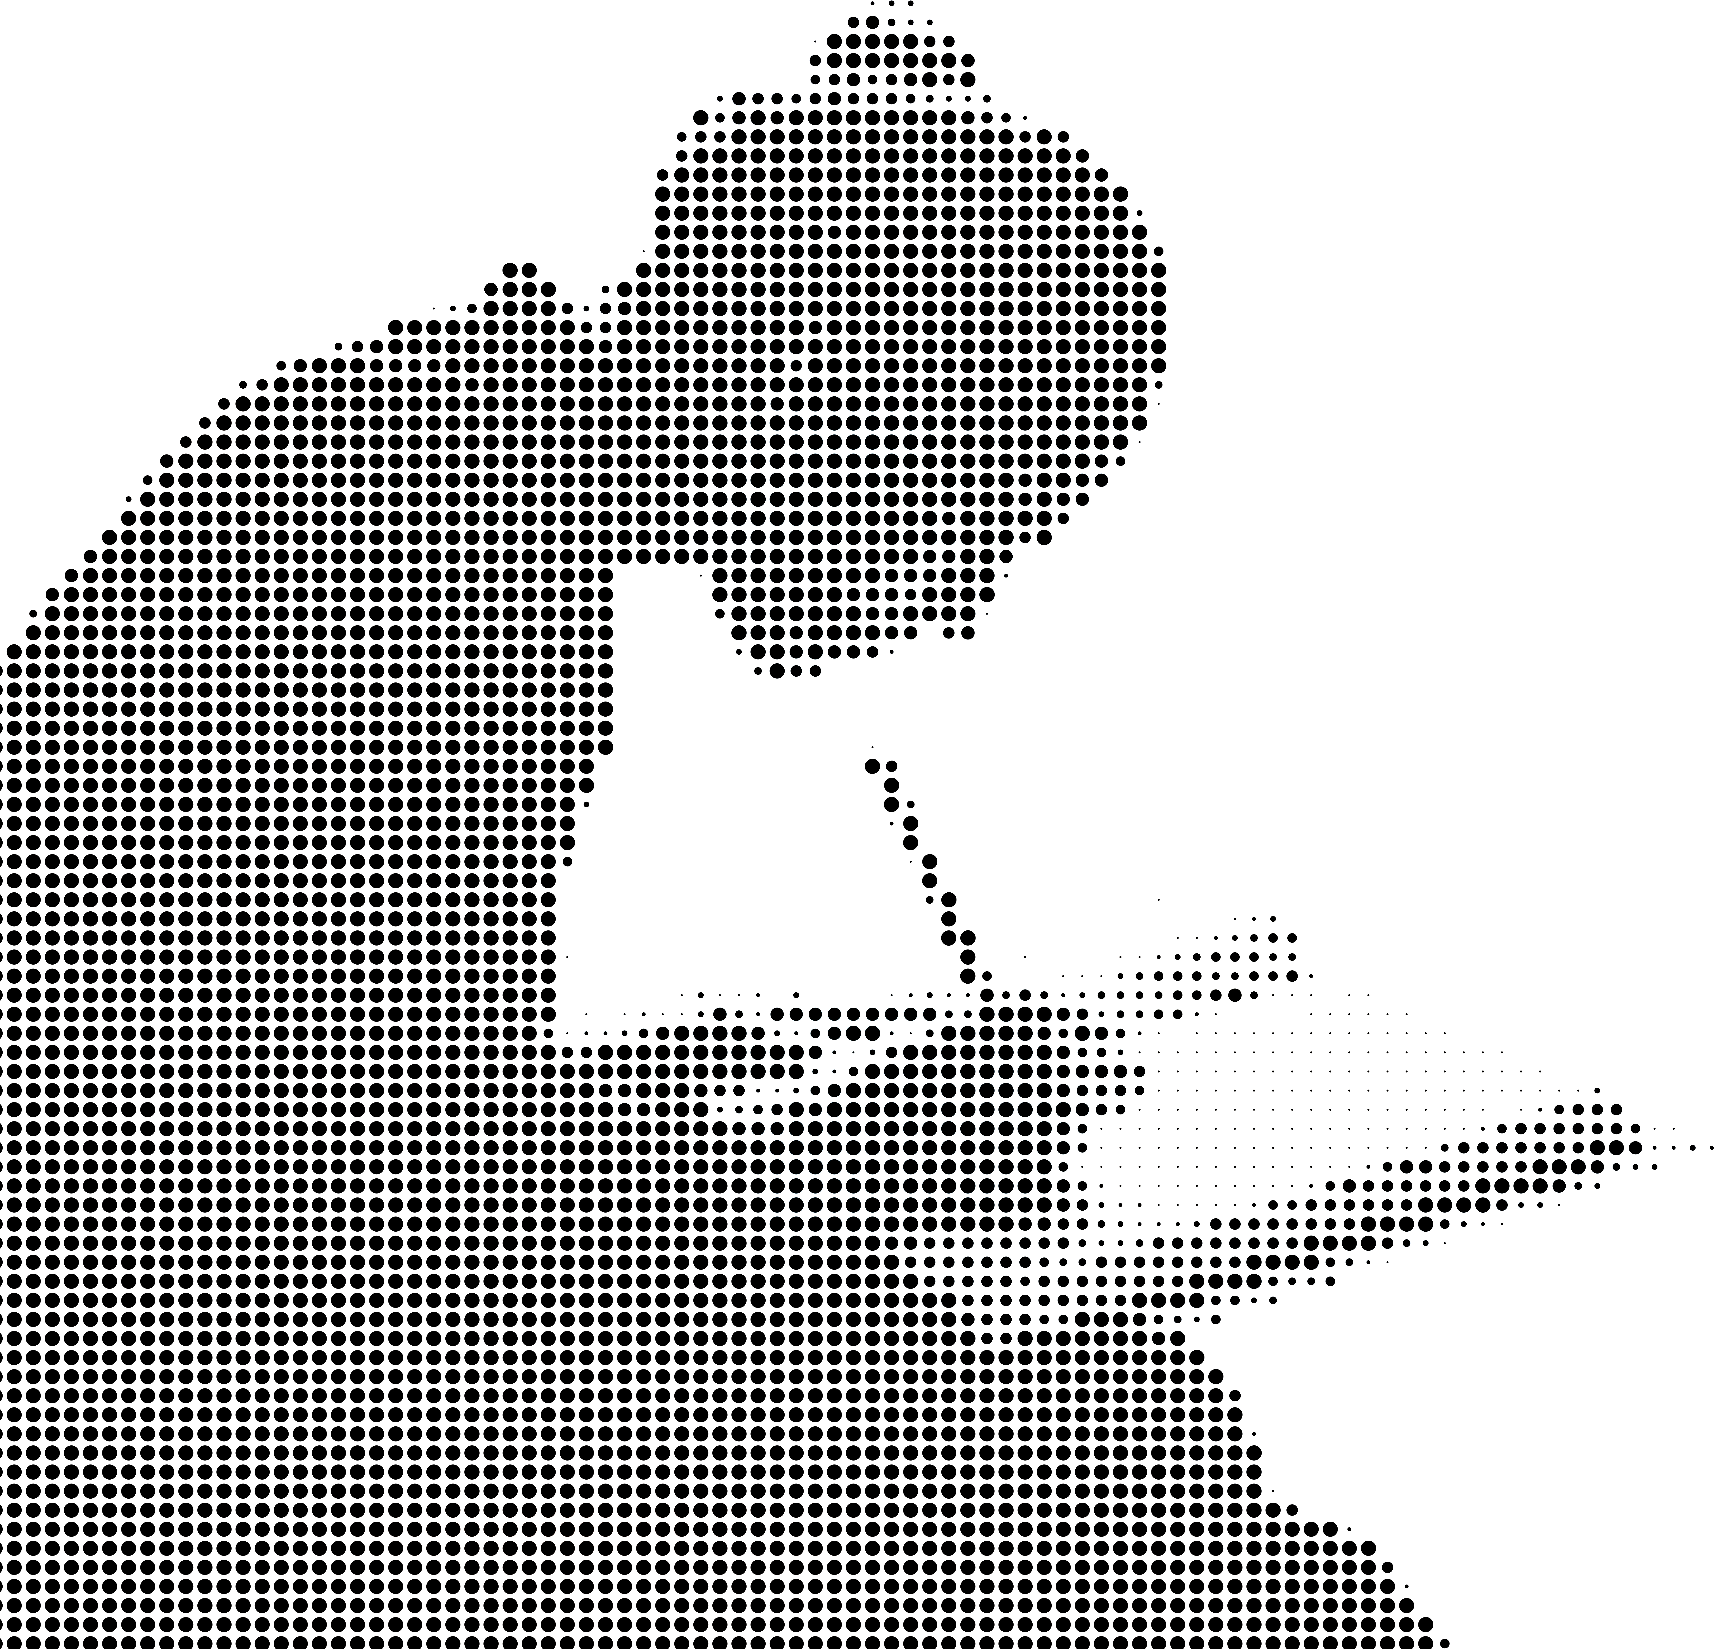
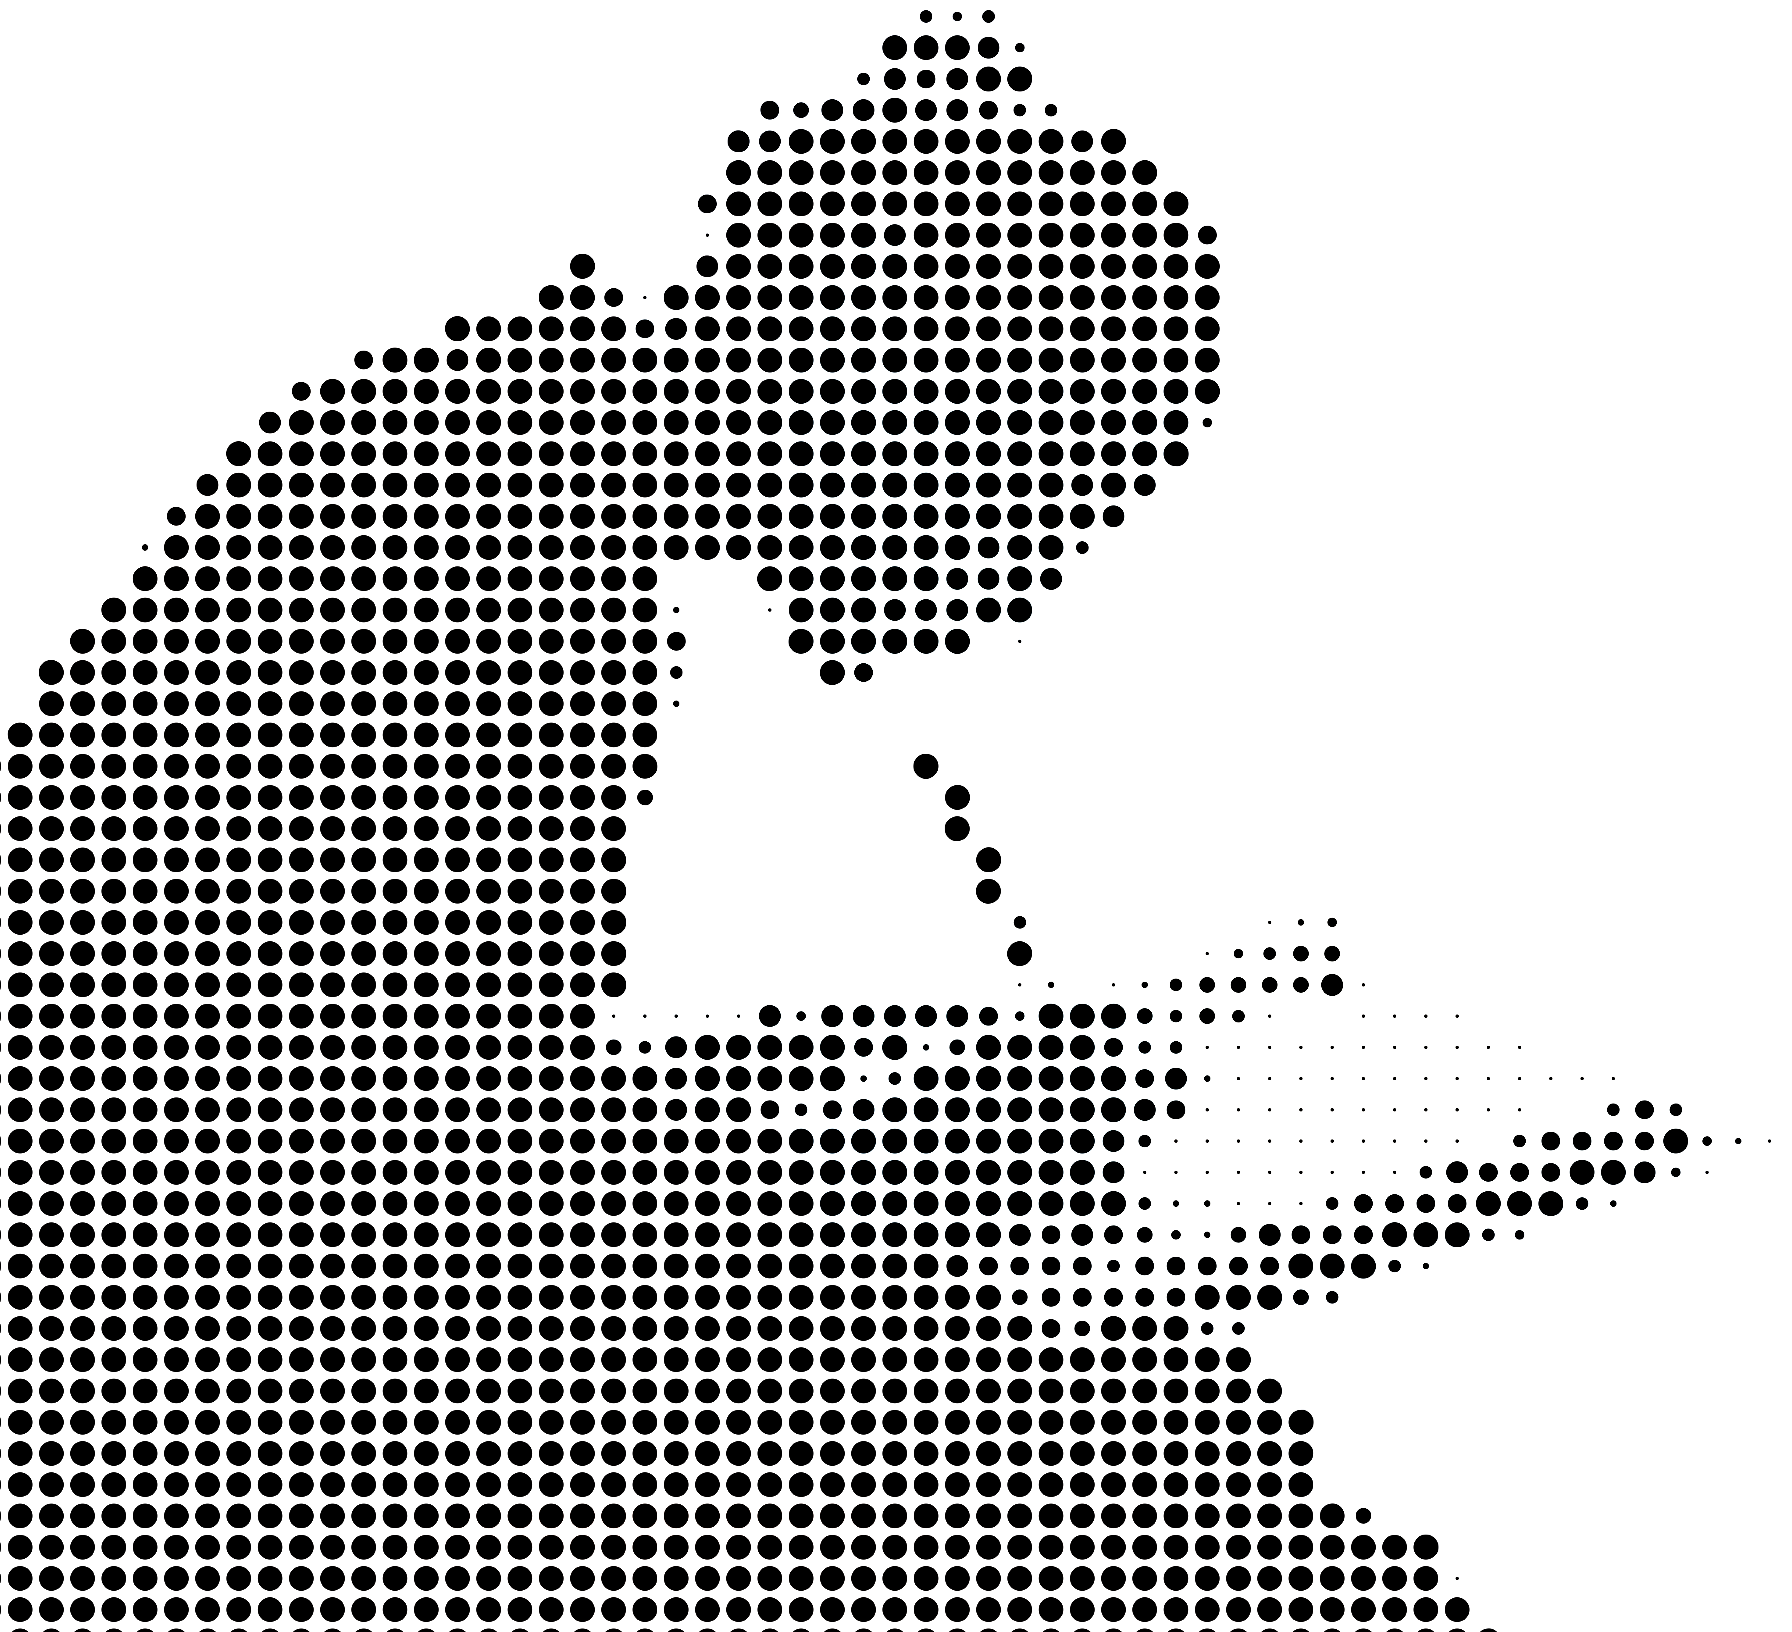
Checkpoint

Changed region(s): [[0.0, 0.0, 0.958, 1.0], [0.4945, 0.4375, 0.5563, 0.5625]]

diff --git a/app/page.tsx b/app/page.tsx
@@ -11,13 +11,11 @@ import {
   BookOpen02Icon,
   Message01Icon,
   ChartHistogramIcon,
-  GraduationScrollIcon,
   ArrowUpRight01Icon,
   ArrowRight02Icon,
 } from "@hugeicons/core-free-icons";
 import { useEffect, useRef, useState } from "react";
 import { motion, AnimatePresence } from "framer-motion";
-import { InteractiveGridPattern } from "@/components/ui/interactive-grid-pattern";
 import { Highlighter } from "@/components/ui/highlighter";
 import Logo from "@/components/ui/logo";
 import UnicornScene from "unicornstudio-react";
@@ -48,6 +46,9 @@ const examBoards = [
 export default function Home() {
   const [showNavCTA, setShowNavCTA] = useState(false);
   const heroCtaRef = useRef<HTMLButtonElement>(null);
+  const featuresRef = useRef<HTMLElement>(null);
+  const subjectsRef = useRef<HTMLElement>(null);
+  const pricingRef = useRef<HTMLElement>(null);
 
   useEffect(() => {
     const observer = new IntersectionObserver(
@@ -89,7 +90,16 @@ export default function Home() {
   }, []);
 
   return (
-    <div className="min-h-screen bg-background">
+    <div className="min-h-screen bg-background relative">
+      {/* Bottom left decorative image */}
+      <Image
+        src="/student-glyph-dither.png"
+        alt=""
+        width={500}
+        height={500}
+        className="absolute bottom-0 -left-12 pointer-events-none mix-blend-multiply"
+        aria-hidden="true"
+      />
       {/* Header */}
       <header className="sticky top-0 z-50 w-full bg-background/60 backdrop-blur-xl supports-backdrop-filter:bg-background/60">
         <div className="container mx-auto flex h-16 items-center justify-between px-4">
@@ -98,10 +108,9 @@ export default function Home() {
           </div>
           <div className="flex items-center gap-2">
             <nav className="hidden md:flex items-center gap-2">
-              <Button variant="ghost" className="hover:bg-black/5 hover:text-foreground dark:hover:bg-white/5">About Us</Button>
-              <Button variant="ghost" className="hover:bg-black/5 hover:text-foreground dark:hover:bg-white/5">Subjects</Button>
-              <Button variant="ghost" className="hover:bg-black/5 hover:text-foreground dark:hover:bg-white/5">Features</Button>
-              <Button variant="ghost" className="hover:bg-black/5 hover:text-foreground dark:hover:bg-white/5">Pricing</Button>
+              <Button variant="ghost" className="hover:bg-black/5 hover:text-foreground dark:hover:bg-white/5" onClick={() => featuresRef.current?.scrollIntoView({ behavior: "smooth" })}>Features</Button>
+              <Button variant="ghost" className="hover:bg-black/5 hover:text-foreground dark:hover:bg-white/5" onClick={() => subjectsRef.current?.scrollIntoView({ behavior: "smooth" })}>Subjects</Button>
+              <Button variant="ghost" className="hover:bg-black/5 hover:text-foreground dark:hover:bg-white/5" onClick={() => pricingRef.current?.scrollIntoView({ behavior: "smooth" })}>Pricing</Button>
             </nav>
             <div className="flex items-center gap-2">
               <Button variant="ghost" className="hover:bg-black/5 hover:text-foreground dark:hover:bg-white/5">Login</Button>
@@ -168,8 +177,8 @@ export default function Home() {
               Trusted by 500+ students at Russell Group universities
             </p>
             <div className="relative overflow-hidden">
-              <div className="absolute left-0 top-0 z-10 h-full w-20 bg-gradient-to-r from-background to-transparent pointer-events-none" />
-              <div className="absolute right-0 top-0 z-10 h-full w-20 bg-gradient-to-l from-background to-transparent pointer-events-none" />
+              <div className="absolute left-0 top-0 z-10 h-full w-20 bg-linear-to-r from-background to-transparent pointer-events-none" />
+              <div className="absolute right-0 top-0 z-10 h-full w-20 bg-linear-to-l from-background to-transparent pointer-events-none" />
               <Marquee pauseOnHover className="[--duration:30s] [--gap:4rem]">
                 <Image
                   src="/russell-group-universities/bath-logo-CHVRJtA5.png"
@@ -212,7 +221,7 @@ export default function Home() {
         </section>
 
         {/* How It Works */}
-        <section className="py-24 px-4">
+        <section ref={featuresRef} className="py-24 px-4">
           <div className="container mx-auto max-w-5xl">
             <div className="text-center mb-16">
               <h2 className="text-3xl font-bold mb-4">How Mentiora Works</h2>
@@ -271,7 +280,7 @@ export default function Home() {
         </section>
 
         {/* Subjects Section */}
-        <section className="py-24 px-4 bg-muted/50">
+        <section ref={subjectsRef} className="py-24 px-4 bg-muted/50">
           <div className="container mx-auto max-w-5xl">
             <div className="text-center mb-16">
               <h2 className="text-3xl font-bold mb-4">
@@ -360,7 +369,7 @@ export default function Home() {
         </section>
 
         {/* Pricing Section */}
-        <section className="py-24 px-4 bg-muted/50">
+        <section ref={pricingRef} className="py-24 px-4 bg-muted/50">
           <div className="container mx-auto max-w-3xl">
             <div className="text-center mb-16">
               <h2 className="text-3xl font-bold mb-4">Calculate your savings</h2>
@@ -419,33 +428,11 @@ export default function Home() {
       </main>
 
       {/* Footer */}
-      <footer className="border-t py-12 px-4">
-        <div className="container mx-auto">
-          <div className="grid md:grid-cols-4 gap-8">
-            <div>
-              <div className="flex items-center gap-2 mb-4">
-                <HugeiconsIcon icon={GraduationScrollIcon} className="size-6" />
-                <span className="text-lg font-semibold">Mentiora</span>
-              </div>
-              <p className="text-sm text-muted-foreground">
-                Personalised learning for GCSE & A-Levels
-              </p>
-            </div>
-            <div>
-              <h4 className="font-semibold mb-4">Product</h4>
-              <ul className="space-y-2 text-sm text-muted-foreground">
-                <li>Pricing</li>
-                <li>Features</li>
-                <li>Subjects</li>
-              </ul>
-            </div>
-            <div>
-              <h4 className="font-semibold mb-4">Company</h4>
-              <ul className="space-y-2 text-sm text-muted-foreground">
-                <li>About us</li>
-              </ul>
-            </div>
-          </div>
+      <footer className="py-12 px-4">
+        <div className="container mx-auto text-center">
+          <p className="text-sm text-muted-foreground">
+            © {new Date().getFullYear()} Mentiora. All rights reserved.
+          </p>
         </div>
       </footer>
     </div>
